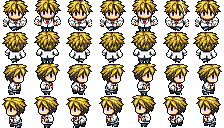
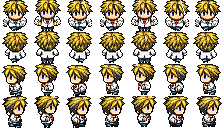
Add building in city Add side view on player

diff --git a/map/Jeu de tuiles (.tsx)/ted_empire.tsx b/map/Jeu de tuiles (.tsx)/ted_empire.tsx
@@ -1,0 +1,4 @@
+<?xml version="1.0" encoding="UTF-8"?>
+<tileset version="1.10" tiledversion="1.10.1" name="ted_empire" tilewidth="16" tileheight="16" tilecount="260" columns="10">
+ <image source="../../image/immeubles/ted_empire.png" trans="000000" width="160" height="420"/>
+</tileset>

diff --git a/map/Jeu de tuiles (.tsx)/immeuble1.tsx b/map/Jeu de tuiles (.tsx)/immeuble1.tsx
@@ -1,0 +1,4 @@
+<?xml version="1.0" encoding="UTF-8"?>
+<tileset version="1.10" tiledversion="1.10.1" name="immeuble1" tilewidth="16" tileheight="16" tilecount="200" columns="10">
+ <image source="../../image/immeubles/immeuble1.png" trans="000000" width="160" height="320"/>
+</tileset>

diff --git a/map/Jeu de tuiles (.tsx)/immeuble2.tsx b/map/Jeu de tuiles (.tsx)/immeuble2.tsx
@@ -1,0 +1,4 @@
+<?xml version="1.0" encoding="UTF-8"?>
+<tileset version="1.10" tiledversion="1.10.1" name="immeuble2" tilewidth="16" tileheight="16" tilecount="200" columns="10">
+ <image source="../../image/immeubles/immeuble2.png" trans="000000" width="160" height="320"/>
+</tileset>

diff --git a/map/Jeu de tuiles (.tsx)/immeuble3.tsx b/map/Jeu de tuiles (.tsx)/immeuble3.tsx
@@ -1,0 +1,4 @@
+<?xml version="1.0" encoding="UTF-8"?>
+<tileset version="1.10" tiledversion="1.10.1" name="immeuble3" tilewidth="16" tileheight="16" tilecount="200" columns="10">
+ <image source="../../image/immeubles/immeuble3.png" trans="000000" width="160" height="320"/>
+</tileset>

diff --git a/map/Jeu de tuiles (.tsx)/immeuble4.tsx b/map/Jeu de tuiles (.tsx)/immeuble4.tsx
@@ -1,0 +1,4 @@
+<?xml version="1.0" encoding="UTF-8"?>
+<tileset version="1.10" tiledversion="1.10.1" name="immeuble4" tilewidth="16" tileheight="16" tilecount="200" columns="10">
+ <image source="../../image/immeubles/immeuble4.png" trans="000000" width="160" height="320"/>
+</tileset>

diff --git a/animation.py b/animation.py
@@ -8,12 +8,12 @@ class AnimateSprite(pygame.sprite.Sprite) :
         self.clock = 0
         self.images = {
             'down': self.get_images(0),
-            'left': self.get_images(0),
-            'right': self.get_images(0),
+            'left': self.get_images(64),
+            'right': self.get_images(96),
             'up': self.get_images(32),
             'down_hide': self.get_images(128),
-            'left_hide': self.get_images(0),#224
-            'right_hide': self.get_images(0),#192
+            'left_hide': self.get_images(192),#224
+            'right_hide': self.get_images(224),#192
             'up_hide': self.get_images(160)
         }
         self.speed = 2
